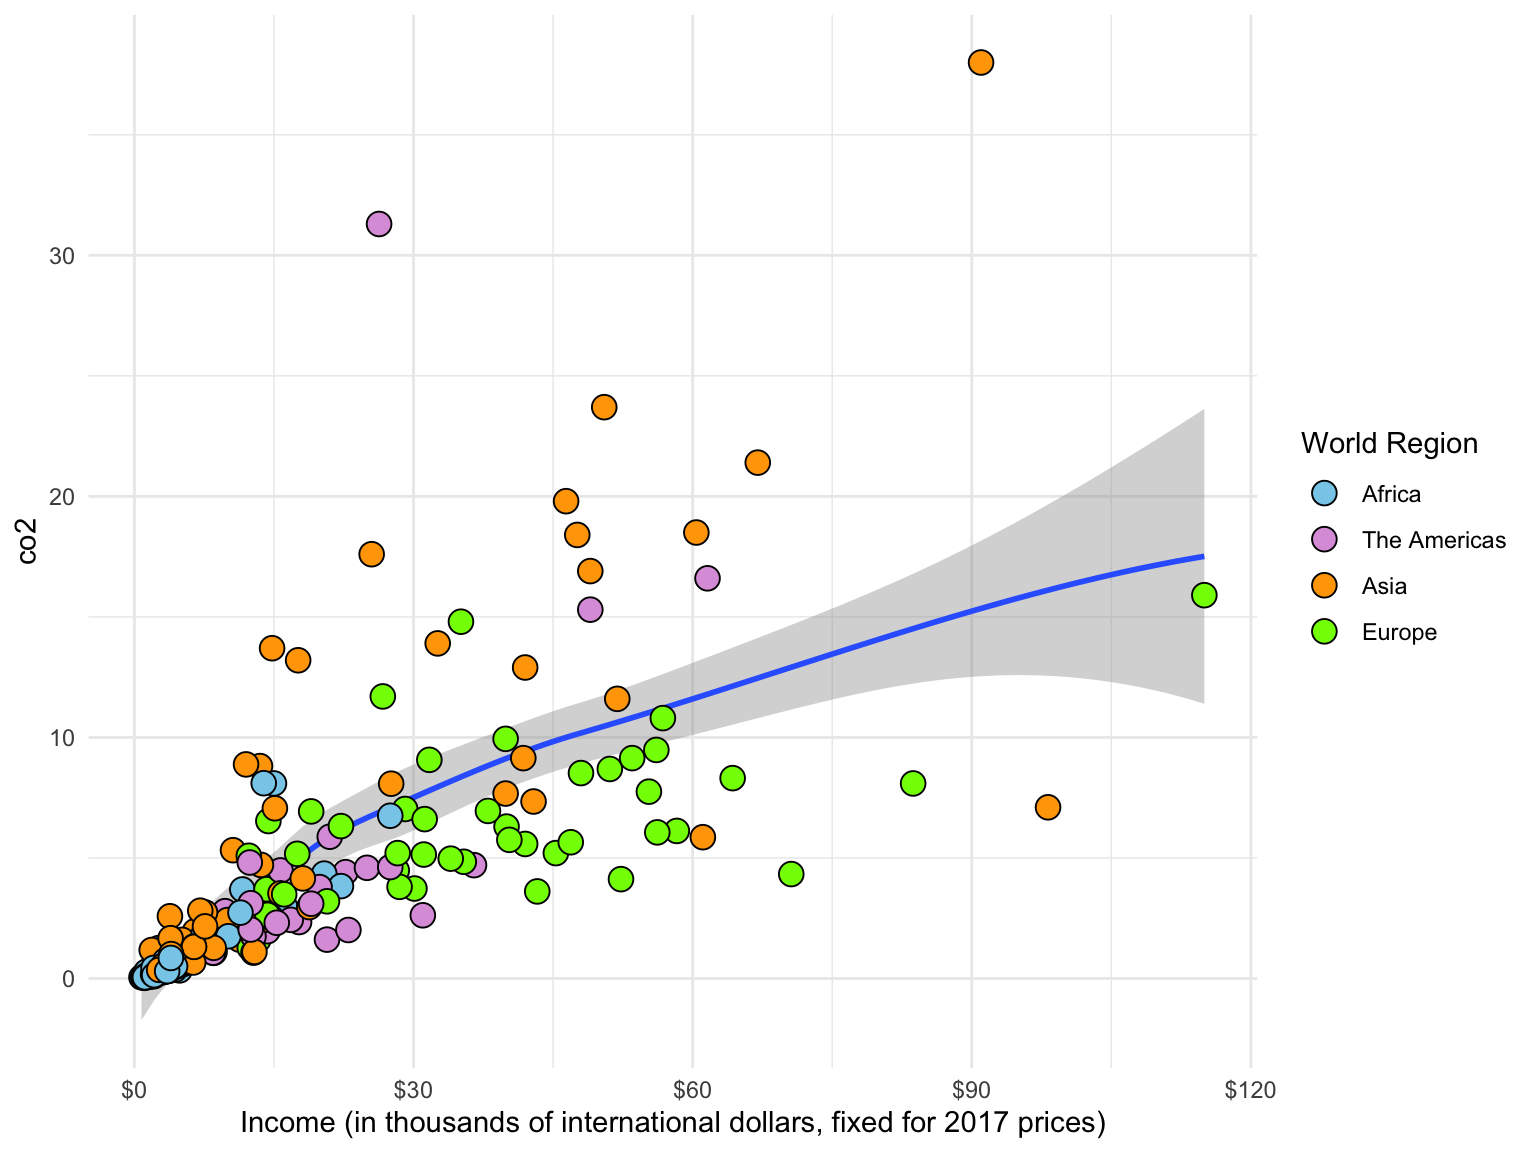
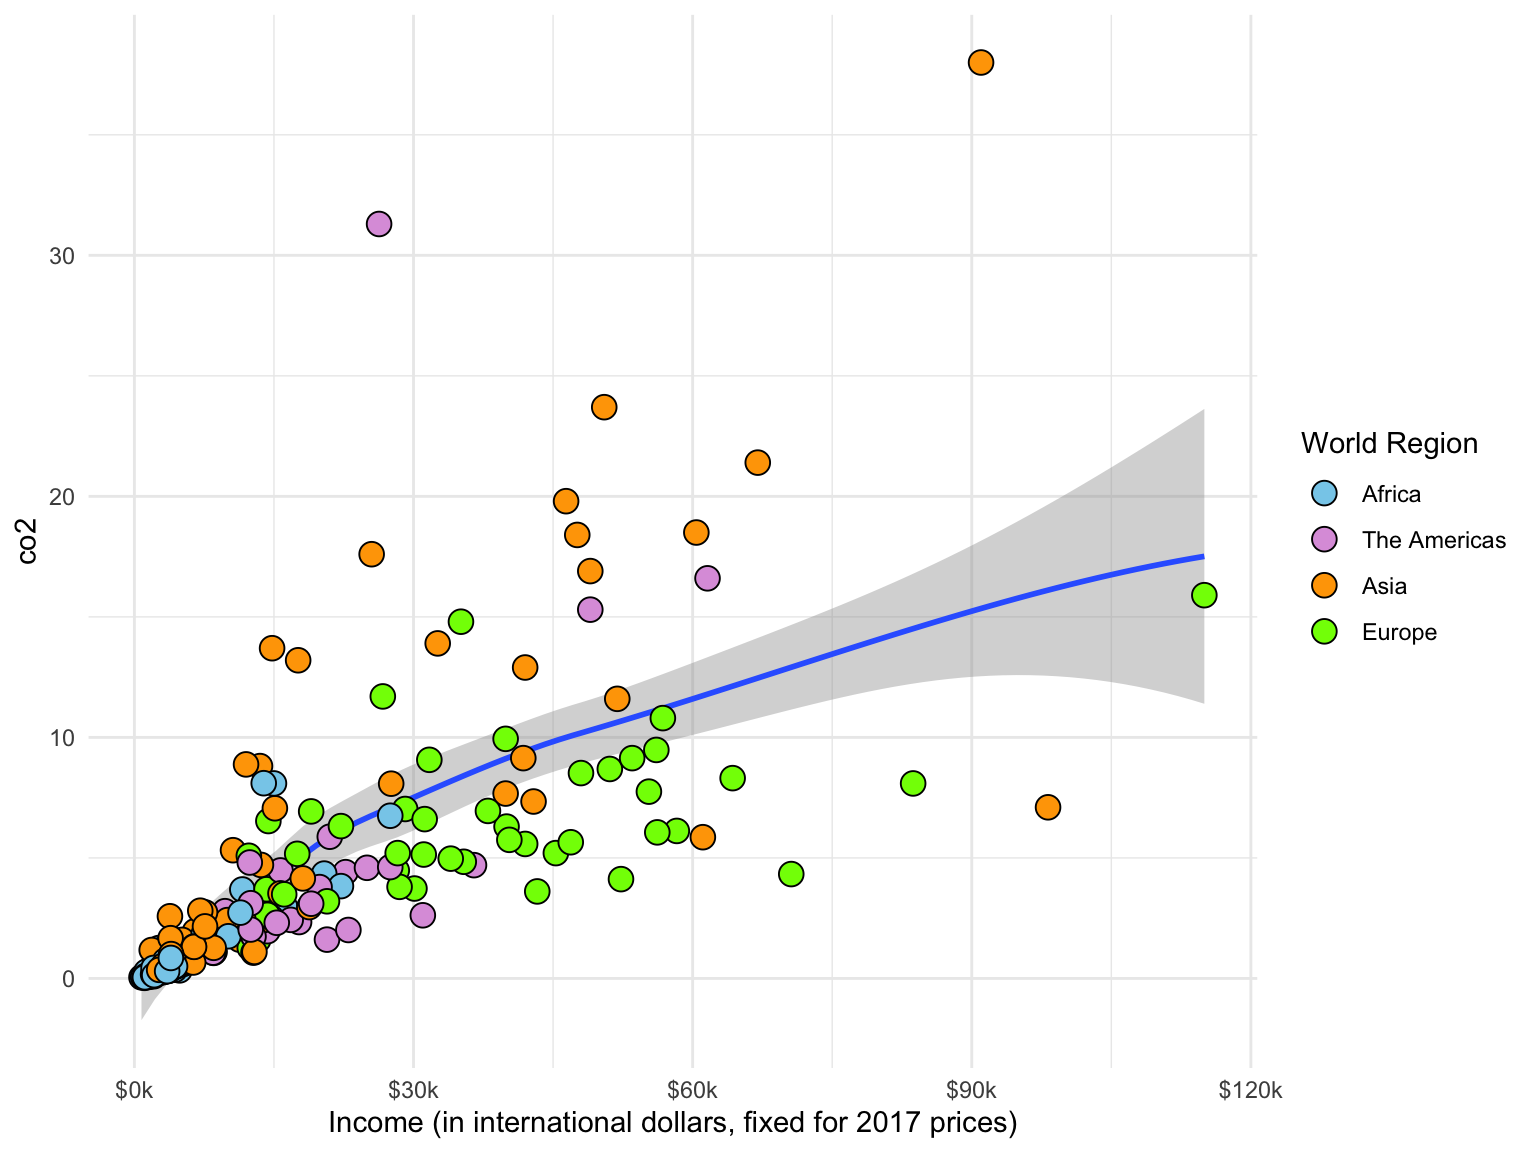
Updated scales section

Changed region(s): [[0.1562, 0.9375, 0.7188, 1.0], [0.7812, 0.9375, 0.8438, 0.9688], [0.0625, 0.9375, 0.0938, 0.9688]]

diff --git a/docs/06-visualizing-with-ggplot2.html b/docs/06-visualizing-with-ggplot2.html
@@ -1086,13 +1086,13 @@ $ population   &lt;dbl&gt; 37.2000, 2.8800, 42.2000, 0.0770, 30.8000, 0.0963, 44
 </div>
 </div>
 </div>
-<p>One useful extension package is the <code>{scales}</code> package. The functions and layers in this package are useful for transforming and labeling scales that are used to create your plot. For example, one of the functions in the <code>{scales}</code> package will put a dollar sign in front of all the values labelled on an axis (very useful if the attribute being plotted is dollars). There is a nice web tutorial on using the <code>{scales}</code> package <a href="https://bookdown.org/Maxine/ggplot2-maps/posts/2019-11-27-using-scales-package-to-modify-ggplot2-scale/">here</a>.</p>
+<p>One useful extension package is the <code>{scales}</code> package. The functions and layers in this package are useful for transforming and labeling scales that are used to create your plot. For example, one of the functions in the <code>{scales}</code> package. <code>label_number()</code>, can be used to add a character prior to, or after all the numericval values labelled on an axis (very useful if the attribute being plotted is dollars). There is a nice web tutorial on using the <code>{scales}</code> package <a href="https://bookdown.org/Maxine/ggplot2-maps/posts/2019-11-27-using-scales-package-to-modify-ggplot2-scale/">here</a>.</p>
 <p>Here we add</p>
 <div class="cell" data-layout-align="center">
 <div class="sourceCode cell-code" id="cb31"><pre class="sourceCode r code-with-copy"><code class="sourceCode r"><span id="cb31-1"><a href="#cb31-1" aria-hidden="true" tabindex="-1"></a><span class="co"># Load library</span></span>
 <span id="cb31-2"><a href="#cb31-2" aria-hidden="true" tabindex="-1"></a><span class="fu">library</span>(scales)</span>
 <span id="cb31-3"><a href="#cb31-3" aria-hidden="true" tabindex="-1"></a></span>
-<span id="cb31-4"><a href="#cb31-4" aria-hidden="true" tabindex="-1"></a><span class="co"># Use the `{scales}` package to add $ in front of labels on the x-axis</span></span>
+<span id="cb31-4"><a href="#cb31-4" aria-hidden="true" tabindex="-1"></a><span class="co"># Use the `{scales}` package to add $ in front of labels and k at the end on the x-axis</span></span>
 <span id="cb31-5"><a href="#cb31-5" aria-hidden="true" tabindex="-1"></a><span class="fu">ggplot</span>(<span class="at">data =</span> gapminder, <span class="fu">aes</span>(<span class="at">x =</span> income, <span class="at">y =</span> co2)) <span class="sc">+</span>  </span>
 <span id="cb31-6"><a href="#cb31-6" aria-hidden="true" tabindex="-1"></a>  <span class="fu">geom_smooth</span>() <span class="sc">+</span></span>
 <span id="cb31-7"><a href="#cb31-7" aria-hidden="true" tabindex="-1"></a>  <span class="fu">geom_point</span>(<span class="at">shape =</span> <span class="dv">21</span>, <span class="at">size =</span> <span class="dv">4</span>, <span class="fu">aes</span>(<span class="at">fill =</span> region)) <span class="sc">+</span></span>
@@ -1102,8 +1102,8 @@ $ population   &lt;dbl&gt; 37.2000, 2.8800, 42.2000, 0.0770, 30.8000, 0.0963, 44
 <span id="cb31-11"><a href="#cb31-11" aria-hidden="true" tabindex="-1"></a>    <span class="at">labels =</span> <span class="fu">c</span>(<span class="st">"Africa"</span>, <span class="st">"The Americas"</span>, <span class="st">"Asia"</span>, <span class="st">"Europe"</span>)</span>
 <span id="cb31-12"><a href="#cb31-12" aria-hidden="true" tabindex="-1"></a>  ) <span class="sc">+</span></span>
 <span id="cb31-13"><a href="#cb31-13" aria-hidden="true" tabindex="-1"></a>  <span class="fu">scale_x_continuous</span>(</span>
-<span id="cb31-14"><a href="#cb31-14" aria-hidden="true" tabindex="-1"></a>    <span class="at">name =</span> <span class="st">"Income (in thousands of international dollars, fixed for 2017 prices)"</span>,</span>
-<span id="cb31-15"><a href="#cb31-15" aria-hidden="true" tabindex="-1"></a>    <span class="at">labels =</span> dollar</span>
+<span id="cb31-14"><a href="#cb31-14" aria-hidden="true" tabindex="-1"></a>    <span class="at">name =</span> <span class="st">"Income (in international dollars, fixed for 2017 prices)"</span>,</span>
+<span id="cb31-15"><a href="#cb31-15" aria-hidden="true" tabindex="-1"></a>    <span class="at">labels =</span> <span class="fu">label_number</span>(<span class="at">prefix =</span> <span class="st">"$"</span>, <span class="at">suffix =</span> <span class="st">"k"</span>)</span>
 <span id="cb31-16"><a href="#cb31-16" aria-hidden="true" tabindex="-1"></a>  ) <span class="sc">+</span></span>
 <span id="cb31-17"><a href="#cb31-17" aria-hidden="true" tabindex="-1"></a>  <span class="fu">theme_minimal</span>()</span></code><button title="Copy to Clipboard" class="code-copy-button"><i class="bi"></i></button></pre></div>
 <div class="cell-output-display">
@@ -1176,7 +1176,7 @@ $ population   &lt;dbl&gt; 37.2000, 2.8800, 42.2000, 0.0770, 30.8000, 0.0963, 44
 <li><strong>Cookbook for R:</strong> Web-based version of Winston Chang’s R Graphics Cookbook http://www.cookbook-r.com/Graphs/ (The UMN library has electronic access to the actual book. Just search for “R Graphics Cookbook” and log-in with your x500.)</li>
 <li><strong>Data Visualization: A Practical Introduction:</strong> Online book about data viz using ggplot2 https://socviz.co/</li>
 </ul>
-<p>Happy Plotting!!! 📈 🎉</p>
+<p>Happy Plotting!!! 💹 🎂</p>
 <p><br></p>
 </section>
 <section id="references" class="level2 unnumbered">
